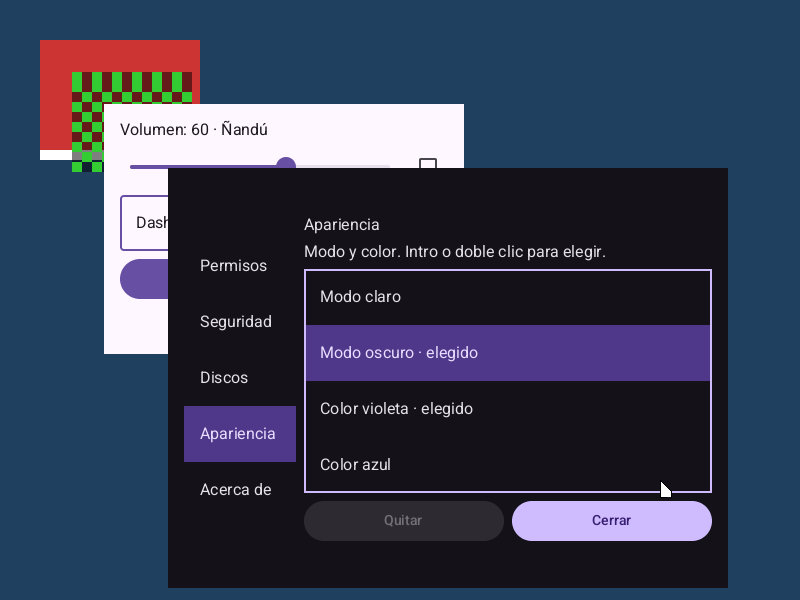
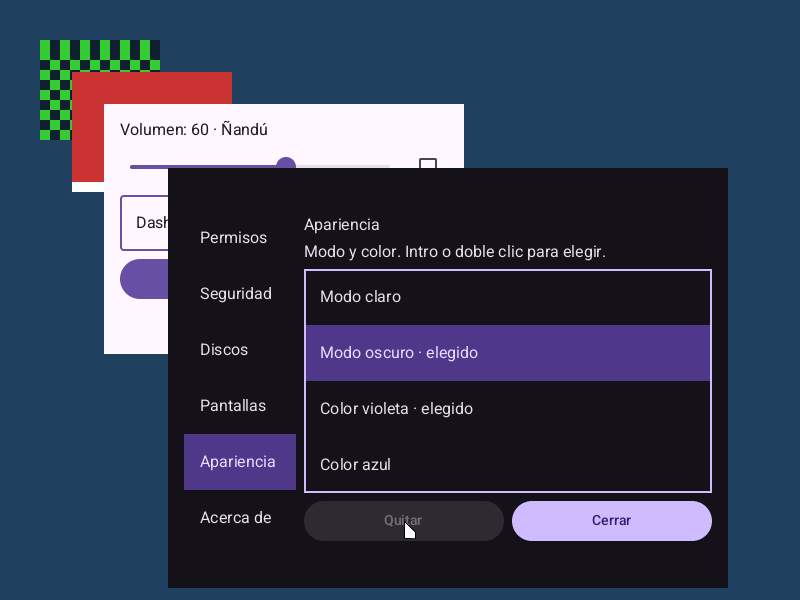
S10c: el centro de control se maximiza y vuelve (Super+Arriba y Super+Abajo)
Búfer nuevo de la medida que pide el compositor, como Ajustes. La barra lateral, con una
fila por categoría.

Claude-Session: https://claude.ai/code/session_01LPg8XbNbvkSVM2uHgnL5tA

diff --git a/usuario/src/bin/centro.rs b/usuario/src/bin/centro.rs
@@ -42,7 +42,7 @@ use kit::objetos::{atr, Arbol, Cuando, Que, Valor};
 use kit::tema::Tema;
 use ventana_cliente::*;
 use wayland::tablas::{
-    wl_compositor, wl_display, wl_keyboard, wl_output, wl_pointer, wl_registry, wl_seat, wl_shm, wl_shm_pool, wl_surface,
+    wl_buffer, wl_compositor, wl_display, wl_keyboard, wl_output, wl_pointer, wl_registry, wl_seat, wl_shm, wl_shm_pool, wl_surface,
     xdg_surface, xdg_toplevel, xdg_wm_base,
 };
 use wayland::Escritor;
@@ -55,6 +55,13 @@ const SESIONES: u32 = 3;
 const CANAL: u32 = 4;
 const ANCHO: i32 = 560;
 const ALTO: i32 = 420;
+/// Lo más que se pide de memoria para la ventana maximizada (una pantalla de 1920 × 1200).
+const MAX_ANCHO: i32 = 1920;
+const MAX_ALTO: i32 = 1200;
+/// La segunda dirección del búfer, para cambiar de tamaño sin soltar el que se ve; y sus números de pool y búfer.
+const VA_2: usize = 0x44_0000_0000;
+const POOL_2: u32 = 41;
+const BUFER_2: u32 = 42;
 /// Las categorías, por su nombre de enlace (lo que va tras "abrir") y el que se ve. Irán creciendo (S10c).
 const CATEGORIAS: &[(&str, &str)] = &[
     ("permisos", "Permisos"),
@@ -407,6 +414,7 @@ fn ventana(categoria: usize) {
     ventana_dentro(categoria);
     dashos::canal_escribir(VENTANAS, &[wayland::canal::TROZO_ADIOS], &[]);
     dashos::memoria_quitar(VA);
+    dashos::memoria_quitar(VA_2);
     println!("  [centro] cerrado");
 }
 
@@ -426,7 +434,7 @@ fn ventana_dentro(categoria: usize) -> Option<()> {
     let nombres: Vec<&str> = CATEGORIAS.iter().map(|c| c.1).collect();
     let lado = arbol.crear(Lista, &[
         (atr::OPCIONES, Valor::Texto(nombres.join("|"))),
-        (atr::FILAS, Valor::Int(5)),
+        (atr::FILAS, Valor::Int(CATEGORIAS.len() as i64)),
         (atr::VALOR, Valor::Int(categoria as i64)),
         (atr::PESO, Valor::Int(40)),
     ]);
@@ -499,7 +507,7 @@ fn ventana_dentro(categoria: usize) -> Option<()> {
     i.colocar(Rect::new(0, 0, ANCHO, ALTO));
 
     let tamano = (ANCHO * ALTO * 4) as usize;
-    let m = dashos::memoria_crear(tamano);
+    let mut m = dashos::memoria_crear(tamano);
     if (m as i32) <= 0 {
         return None;
     }
@@ -508,7 +516,9 @@ fn ventana_dentro(categoria: usize) -> Option<()> {
             return None;
         }
         let copia = dashos::llave_duplicar(m, dashos::LEER | dashos::TRANSFERIR, 0);
-        let px = unsafe { core::slice::from_raw_parts_mut(VA as *mut u32, (ANCHO * ALTO) as usize) };
+        let mut px = unsafe { core::slice::from_raw_parts_mut(VA as *mut u32, (ANCHO * ALTO) as usize) };
+        // Lo de cambiar de tamaño (Super+Arriba maximiza): la medida, dónde está el búfer, cuál es y lo que se pide.
+        let (mut medida, mut va, mut bufer, mut pool, mut pedida) = ((ANCHO, ALTO), VA, BUFER, POOL, (0i32, 0i32));
         let mut e = Escritor::new();
         e.empezar(REGISTRO, wl_registry::req::BIND).uint(gc).texto(Some("wl_compositor")).uint(6).uint(COMPOSITOR).fin();
         e.empezar(REGISTRO, wl_registry::req::BIND).uint(gs).texto(Some("wl_shm")).uint(1).uint(SHM).fin();
@@ -527,14 +537,14 @@ fn ventana_dentro(categoria: usize) -> Option<()> {
         e.empezar(VENTANA, xdg_toplevel::req::SET_TITLE).texto(Some("Centro de control")).fin();
         e.empezar(SUPERFICIE, wl_surface::req::COMMIT).fin();
         c.mandar(&e);
-        let presentar = |c: &mut Cliente, i: &mut Interfaz, px: &mut [u32], adjuntar: bool| {
-            let mut l = Lienzo::new(px, ANCHO, ALTO, ANCHO as usize);
+        let presentar = |c: &mut Cliente, i: &mut Interfaz, px: &mut [u32], (w, h): (i32, i32), adjuntar: Option<u32>| {
+            let mut l = Lienzo::new(&mut px[..(w * h) as usize], w, h, w as usize);
             i.dibujar(&mut l);
             let mut e = Escritor::new();
-            if adjuntar {
-                e.empezar(SUPERFICIE, wl_surface::req::ATTACH).uint(BUFER).int(0).int(0).fin();
+            if let Some(b) = adjuntar {
+                e.empezar(SUPERFICIE, wl_surface::req::ATTACH).uint(b).int(0).int(0).fin();
             }
-            e.empezar(SUPERFICIE, wl_surface::req::DAMAGE).int(0).int(0).int(ANCHO).int(ALTO).fin();
+            e.empezar(SUPERFICIE, wl_surface::req::DAMAGE).int(0).int(0).int(w).int(h).fin();
             e.empezar(SUPERFICIE, wl_surface::req::COMMIT).fin();
             c.mandar(&e);
         };
@@ -550,13 +560,53 @@ fn ventana_dentro(categoria: usize) -> Option<()> {
                     c.mandar(&e);
                     false
                 }
+                // El tamaño que pide el compositor llega antes que el configure de la superficie, que lo cierra.
+                (VENTANA, xdg_toplevel::ev::CONFIGURE) => {
+                    pedida = (palabra(0) as i32, palabra(1) as i32);
+                    false
+                }
+                (XDG_SUPERFICIE, xdg_surface::ev::CONFIGURE) if configurada => {
+                    let mut e = Escritor::new();
+                    e.empezar(XDG_SUPERFICIE, xdg_surface::req::ACK_CONFIGURE).uint(palabra(0)).fin();
+                    // 0 × 0: el tamaño propio; si no, el pedido, sin pasar del tope.
+                    let nueva = if pedida.0 > 0 && pedida.1 > 0 { (pedida.0.min(MAX_ANCHO), pedida.1.min(MAX_ALTO)) } else { (ANCHO, ALTO) };
+                    let otra_va = if va == VA { VA_2 } else { VA };
+                    let m2 = if nueva != medida { dashos::memoria_crear((nueva.0 * nueva.1 * 4) as usize) } else { 0 };
+                    if (m2 as i32) > 0 && dashos::memoria_proyectar(m2, otra_va, true) == 0 {
+                        // Pool y búfer nuevos con los otros números; los viejos se destruyen y su memoria se suelta.
+                        let copia2 = dashos::llave_duplicar(m2, dashos::LEER | dashos::TRANSFERIR, 0);
+                        let (otro_pool, otro) = if bufer == BUFER { (POOL_2, BUFER_2) } else { (POOL, BUFER) };
+                        e.empezar(bufer, wl_buffer::req::DESTROY).fin();
+                        e.empezar(pool, wl_shm_pool::req::DESTROY).fin();
+                        e.empezar(SHM, wl_shm::req::CREATE_POOL).uint(otro_pool).llave(copia2 as u32).int(nueva.0 * nueva.1 * 4).fin();
+                        e.empezar(otro_pool, wl_shm_pool::req::CREATE_BUFFER).uint(otro).int(0).int(nueva.0).int(nueva.1).int(nueva.0 * 4).uint(wayland::shm::XRGB8888).fin();
+                        c.mandar(&e);
+                        dashos::memoria_quitar(va);
+                        dashos::cerrar(m);
+                        px = unsafe { core::slice::from_raw_parts_mut(otra_va as *mut u32, (nueva.0 * nueva.1) as usize) };
+                        (m, va, bufer, pool, medida) = (m2, otra_va, otro, otro_pool, nueva);
+                        i.colocar(Rect::new(0, 0, medida.0, medida.1));
+                        presentar(&mut c, &mut i, px, medida, Some(bufer));
+                        if pedida.0 > 0 {
+                            println!("  [centro] el compositor pide {}x{}", medida.0, medida.1);
+                        } else {
+                            println!("  [centro] vuelve a {}x{}", medida.0, medida.1);
+                        }
+                    } else {
+                        if (m2 as i32) > 0 {
+                            dashos::cerrar(m2);
+                        }
+                        c.mandar(&e);
+                    }
+                    false
+                }
                 (XDG_SUPERFICIE, xdg_surface::ev::CONFIGURE) => {
                     let mut e = Escritor::new();
                     e.empezar(XDG_SUPERFICIE, xdg_surface::req::ACK_CONFIGURE).uint(palabra(0)).fin();
                     c.mandar(&e);
                     if !configurada {
                         configurada = true;
-                        presentar(&mut c, &mut i, px, true);
+                        presentar(&mut c, &mut i, px, medida, Some(bufer));
                         println!("  [centro] {} en pantalla: {} concedidos", CATEGORIAS[cat].1, lista.len());
                         // Dónde queda la lista de la derecha en la ventana (las pruebas del ratón la buscan).
                         if let Some(r) = i.sitios.get(&permisos) {
@@ -686,7 +736,7 @@ fn ventana_dentro(categoria: usize) -> Option<()> {
                 _ => {}
             }
             if cambio && configurada {
-                presentar(&mut c, &mut i, px, false);
+                presentar(&mut c, &mut i, px, medida, None);
             }
         }
     })();

diff --git a/docs/REVISION_LOOP.md b/docs/REVISION_LOOP.md
@@ -927,3 +927,8 @@ K6 (ida y vuelta con paso directo) espera a medir en la Pi real (B5).
   compositor: nombre, tamaño, frecuencia y escala. El nombre se corta a lo que trae el mensaje (y a 32 letras). Prueba
   en virt: "Pantallas: Pantalla DASHOS-1: 800 × 600; Frecuencia: 60,000 Hz; Escala: 1". Elegir la resolución, el
   brillo y el modo noche (DMS) esperan a la pantalla de verdad (HVS, G7).
+- S10c, el centro cambia de tamaño: con Super+Arriba el compositor le pide la pantalla entera, y el centro hace un
+  búfer nuevo de esa medida (en la otra dirección, sin soltar el que se ve hasta tenerlo; tope 1920 × 1200) y vuelve a
+  colocar; con Super+Abajo, a su tamaño. Como Ajustes (K7). La barra lateral tiene ya una fila por categoría (con
+  cinco filas, la sexta empujaba a Permisos fuera de la vista). Prueba en virt: "el compositor pide 800x600" y "vuelve
+  a 560x420". Capturas en `docs/capturas/s10c-centro-maximizado.png` y `s10c-centro-apariencia.png`.
